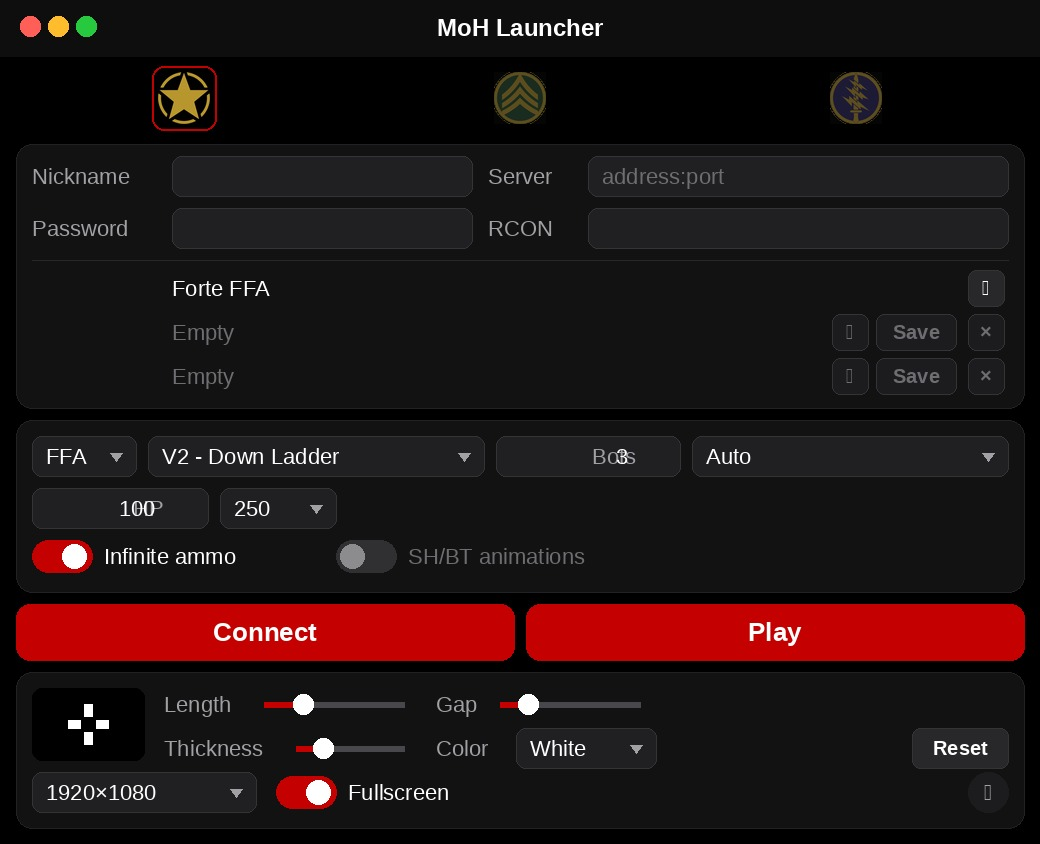
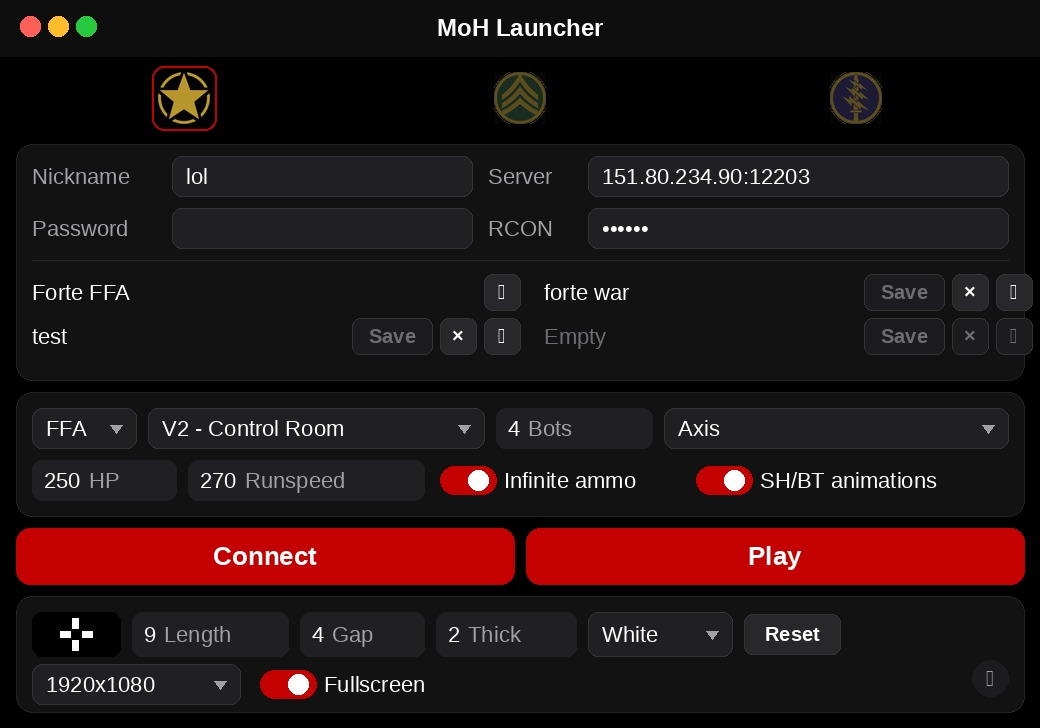
Tighten the shortcuts and label the speed
Four shortcuts sit in two columns, with the connect button at the end of
each one. Speed reads as 270 Runspeed, the checks share that line, and
the crosshair uses the same kind of box as health.

diff --git a/Launcher.swift b/Launcher.swift
@@ -90,7 +90,7 @@ let oldResolutions = [
 
 let botTeams = ["auto", "allies", "axis"]  // g_bot_team values
 let maxBots = 62  // 64 clients minus the two player slots of a bot match
-let shortcutCount = 3
+let shortcutCount = 4
 
 /// The first shortcut is built in. Loading and saving cannot change it.
 let forte = Shortcut(name: "Forte FFA", address: "151.80.234.90:12203")
@@ -640,15 +640,22 @@ struct LauncherView: View {
             SecureField("", text: $config.rcon).textFieldStyle(.roundedBorder)
         }
         Divider()
-        ForEach(0..<shortcutCount, id: \.self) { index in
-            shortcutRow(index)
+        Grid(horizontalSpacing: 12, verticalSpacing: 2) {
+            GridRow {
+                shortcutRow(0)
+                shortcutRow(1)
+            }
+            GridRow {
+                shortcutRow(2)
+                shortcutRow(3)
+            }
         }
     }
 
     private func shortcutRow(_ index: Int) -> some View {
         let shortcut = config.shortcuts[index]
         let empty = shortcut.name.isEmpty
-        return Row("") {
+        return HStack(spacing: 4) {
             Button { config.applyShortcut(index) } label: {
                 Text(empty ? "Empty" : shortcut.name)
                     .lineLimit(1)
@@ -659,14 +666,6 @@ struct LauncherView: View {
             .buttonStyle(.plain)
             .disabled(empty)
             .help(shortcut.address)
-            Button {
-                config.applyShortcut(index)
-                launch(play: false)
-            } label: {
-                Image(systemName: "play.fill")
-            }
-            .disabled(empty)
-            .help("Connect to \(shortcut.name)")
             if index != 0 {
                 Button("Save") {
                     shortcutName = empty ? config.trimmedAddress : shortcut.name
@@ -680,6 +679,14 @@ struct LauncherView: View {
                 .disabled(empty)
                 .help("Clear this shortcut")
             }
+            Button {
+                config.applyShortcut(index)
+                launch(play: false)
+            } label: {
+                Image(systemName: "play.fill")
+            }
+            .disabled(empty)
+            .help("Connect to \(shortcut.name)")
         }
         .controlSize(.small)
     }
@@ -713,15 +720,7 @@ struct LauncherView: View {
         HStack(spacing: 6) {
             UnitField(value: $config.health, range: 1...1000, step: 25, unit: "HP")
                 .help("Player health")
-            Picker("", selection: $config.runSpeed) {
-                ForEach(Config.runSpeeds, id: \.self) { Text("\($0)").tag($0) }
-            }
-            .labelsHidden()
-            .fixedSize()
-            .help("250 is Allied Assault. 287 is Spearhead and Breakthrough.")
-            Spacer(minLength: 0)
-        }
-        HStack(spacing: 6) {
+            SpeedMenu(speed: $config.runSpeed)
             Toggle("Infinite ammo", isOn: $config.infiniteAmmo)
                 .help("Clips never empty, so weapons never need reloading.")
             Toggle("SH/BT animations", isOn: $config.painAnims)
@@ -731,38 +730,27 @@ struct LauncherView: View {
     }
 
     @ViewBuilder private var crosshairRows: some View {
-        HStack(alignment: .center, spacing: 8) {
+        HStack(spacing: 6) {
             CrosshairPreview(config: config)
-                .frame(width: labelWidth, height: 44)
+                .frame(width: 44, height: 22)
                 .background(RoundedRectangle(cornerRadius: 6, style: .continuous).fill(Color.black.opacity(0.85)))
-            VStack(spacing: 6) {
-                HStack(spacing: 8) {
-                    LabeledSlider("Length", value: $config.crosshairLength, range: Config.crosshairLengths)
-                    LabeledSlider("Gap", value: $config.crosshairGap, range: Config.crosshairGaps)
-                }
-                HStack(spacing: 8) {
-                    LabeledSlider("Thickness", value: $config.crosshairThickness, range: Config.crosshairThicknesses)
-                    HStack(spacing: 6) {
-                        Text("Color").foregroundStyle(.secondary)
-                        Picker("", selection: $config.crosshairColor) {
-                            ForEach(Config.crosshairColors, id: \.hex) { color in
-                                Text(color.name).tag(color.hex)
-                            }
-                        }
-                        .labelsHidden()
-                        .fixedSize()
-                        Spacer(minLength: 4)
-                        Button("Reset") {
-                            config.crosshairLength = Config.crosshairDefaults.length
-                            config.crosshairGap = Config.crosshairDefaults.gap
-                            config.crosshairThickness = Config.crosshairDefaults.thickness
-                            config.crosshairColor = Config.crosshairDefaults.color
-                        }
-                        .fixedSize()
-                    }
-                    .frame(maxWidth: .infinity, alignment: .leading)
+            UnitField(value: $config.crosshairLength, range: Config.crosshairLengths, step: 1, unit: "Length")
+            UnitField(value: $config.crosshairGap, range: Config.crosshairGaps, step: 1, unit: "Gap")
+            UnitField(value: $config.crosshairThickness, range: Config.crosshairThicknesses, step: 1, unit: "Thick")
+            Picker("", selection: $config.crosshairColor) {
+                ForEach(Config.crosshairColors, id: \.hex) { color in
+                    Text(color.name).tag(color.hex)
                 }
             }
+            .labelsHidden()
+            .fixedSize()
+            Button("Reset") {
+                config.crosshairLength = Config.crosshairDefaults.length
+                config.crosshairGap = Config.crosshairDefaults.gap
+                config.crosshairThickness = Config.crosshairDefaults.thickness
+                config.crosshairColor = Config.crosshairDefaults.color
+            }
+            .fixedSize()
         }
         .help("Crosshair sizes are in pixels at 1080p and scale with the resolution.")
         HStack(spacing: 8) {
@@ -896,25 +884,6 @@ struct Card<Content: View>: View {
     }
 }
 
-/// A right-aligned label followed by its controls, so labels line up in
-/// every card.
-struct Row<Content: View>: View {
-    let label: String
-    let content: Content
-
-    init(_ label: String, @ViewBuilder content: () -> Content) {
-        self.label = label
-        self.content = content()
-    }
-
-    var body: some View {
-        HStack(spacing: 8) {
-            Text(label).foregroundStyle(.secondary).frame(width: labelWidth, alignment: .trailing)
-            content
-        }
-    }
-}
-
 /// A number box that reads as "3 Bots" or "100 HP".
 struct UnitField: View {
     @Binding var value: Int
@@ -931,7 +900,8 @@ struct UnitField: View {
             )
             .textFieldStyle(.plain)
             .multilineTextAlignment(.trailing)
-            .frame(width: 36)
+            .monospacedDigit()
+            .frame(width: range.upperBound > 99 ? 34 : 20)
             Text(unit).foregroundStyle(.secondary)
             Stepper("", value: $value, in: range, step: step).labelsHidden()
         }
@@ -942,37 +912,34 @@ struct UnitField: View {
     }
 }
 
-/// A slider over whole numbers with its value beside it.
-struct IntSlider: View {
-    @Binding var value: Int
-    let range: ClosedRange<Int>
+/// The run speed, shown as "270 Runspeed". 250 is Allied Assault and 287
+/// is Spearhead and Breakthrough.
+struct SpeedMenu: View {
+    @Binding var speed: Int
 
     var body: some View {
-        Slider(
-            value: Binding(get: { Double(value) }, set: { value = Int($0.rounded()) }),
-            in: Double(range.lowerBound)...Double(range.upperBound)
-        )
-        Text("\(value)").monospacedDigit().frame(width: 30, alignment: .trailing)
-    }
-}
-
-/// An IntSlider with a short label in front, for rows narrower than a Row.
-struct LabeledSlider: View {
-    let label: String
-    @Binding var value: Int
-    let range: ClosedRange<Int>
-
-    init(_ label: String, value: Binding<Int>, range: ClosedRange<Int>) {
-        self.label = label
-        self._value = value
-        self.range = range
-    }
-
-    var body: some View {
-        HStack(spacing: 8) {
-            Text(label).foregroundStyle(.secondary).frame(width: 64, alignment: .leading)
-            IntSlider(value: $value, range: range)
+        Menu {
+            Picker("", selection: $speed) {
+                ForEach(Config.runSpeeds, id: \.self) { value in
+                    Text("\(value)").tag(value)
+                }
+            }
+            .pickerStyle(.inline)
+        } label: {
+            HStack(spacing: 4) {
+                Text("\(speed)").monospacedDigit()
+                Text("Runspeed").foregroundStyle(.secondary)
+                Image(systemName: "chevron.up.chevron.down")
+                    .font(.system(size: 8, weight: .semibold))
+                    .foregroundStyle(.secondary)
+            }
+            .padding(.horizontal, 8)
+            .padding(.vertical, 3)
+            .background(RoundedRectangle(cornerRadius: 6, style: .continuous).fill(Color.primary.opacity(0.08)))
         }
+        .menuStyle(.borderlessButton)
+        .fixedSize()
+        .help("250 is Allied Assault. 287 is Spearhead and Breakthrough.")
     }
 }
 

diff --git a/README.md b/README.md
@@ -2,7 +2,7 @@
 
 MoH Launcher for MoHAA. The window is black, with red controls.
 
-![Launcher](preview.jpg?v=11)
+![Launcher](preview.jpg?v=12)
 
 Connect opens `openmohaa.app`. Play opens `mohbots.app`. The first shortcut is Forte FFA and cannot be changed.
 
